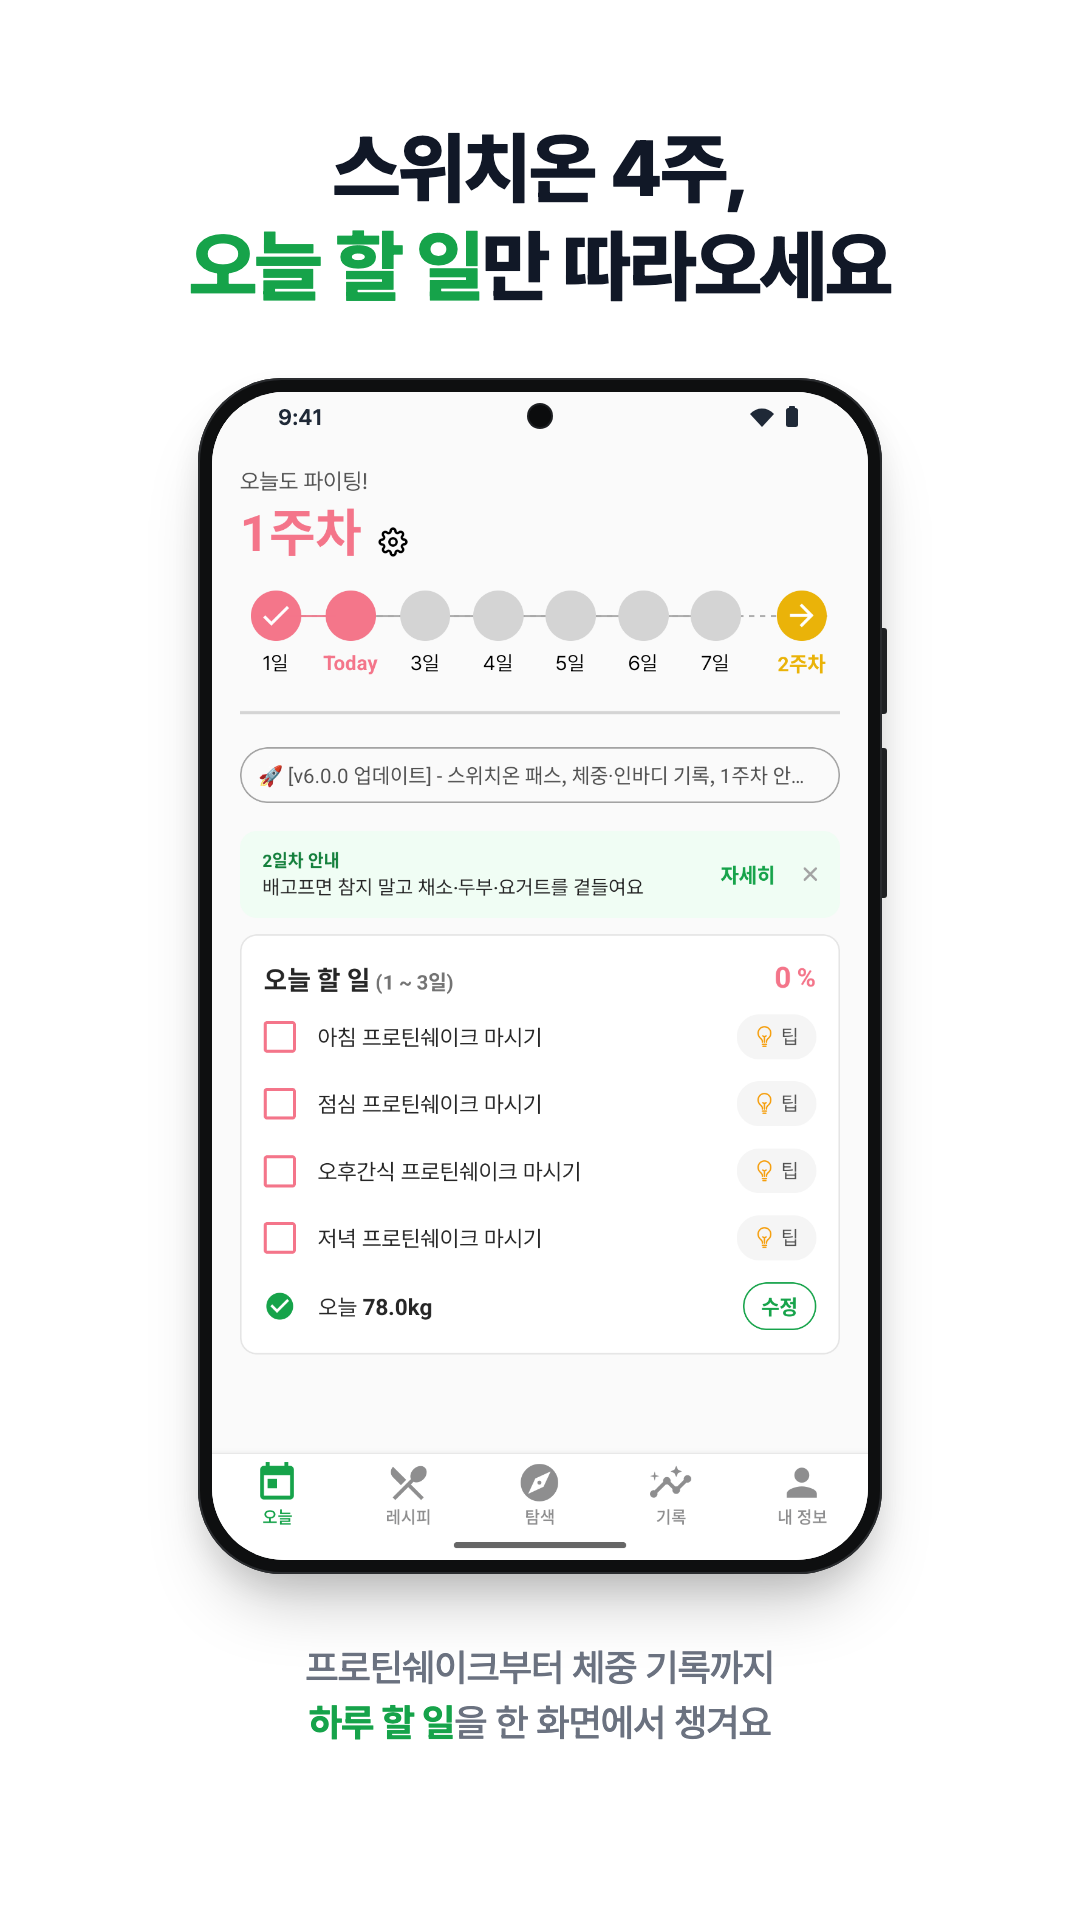
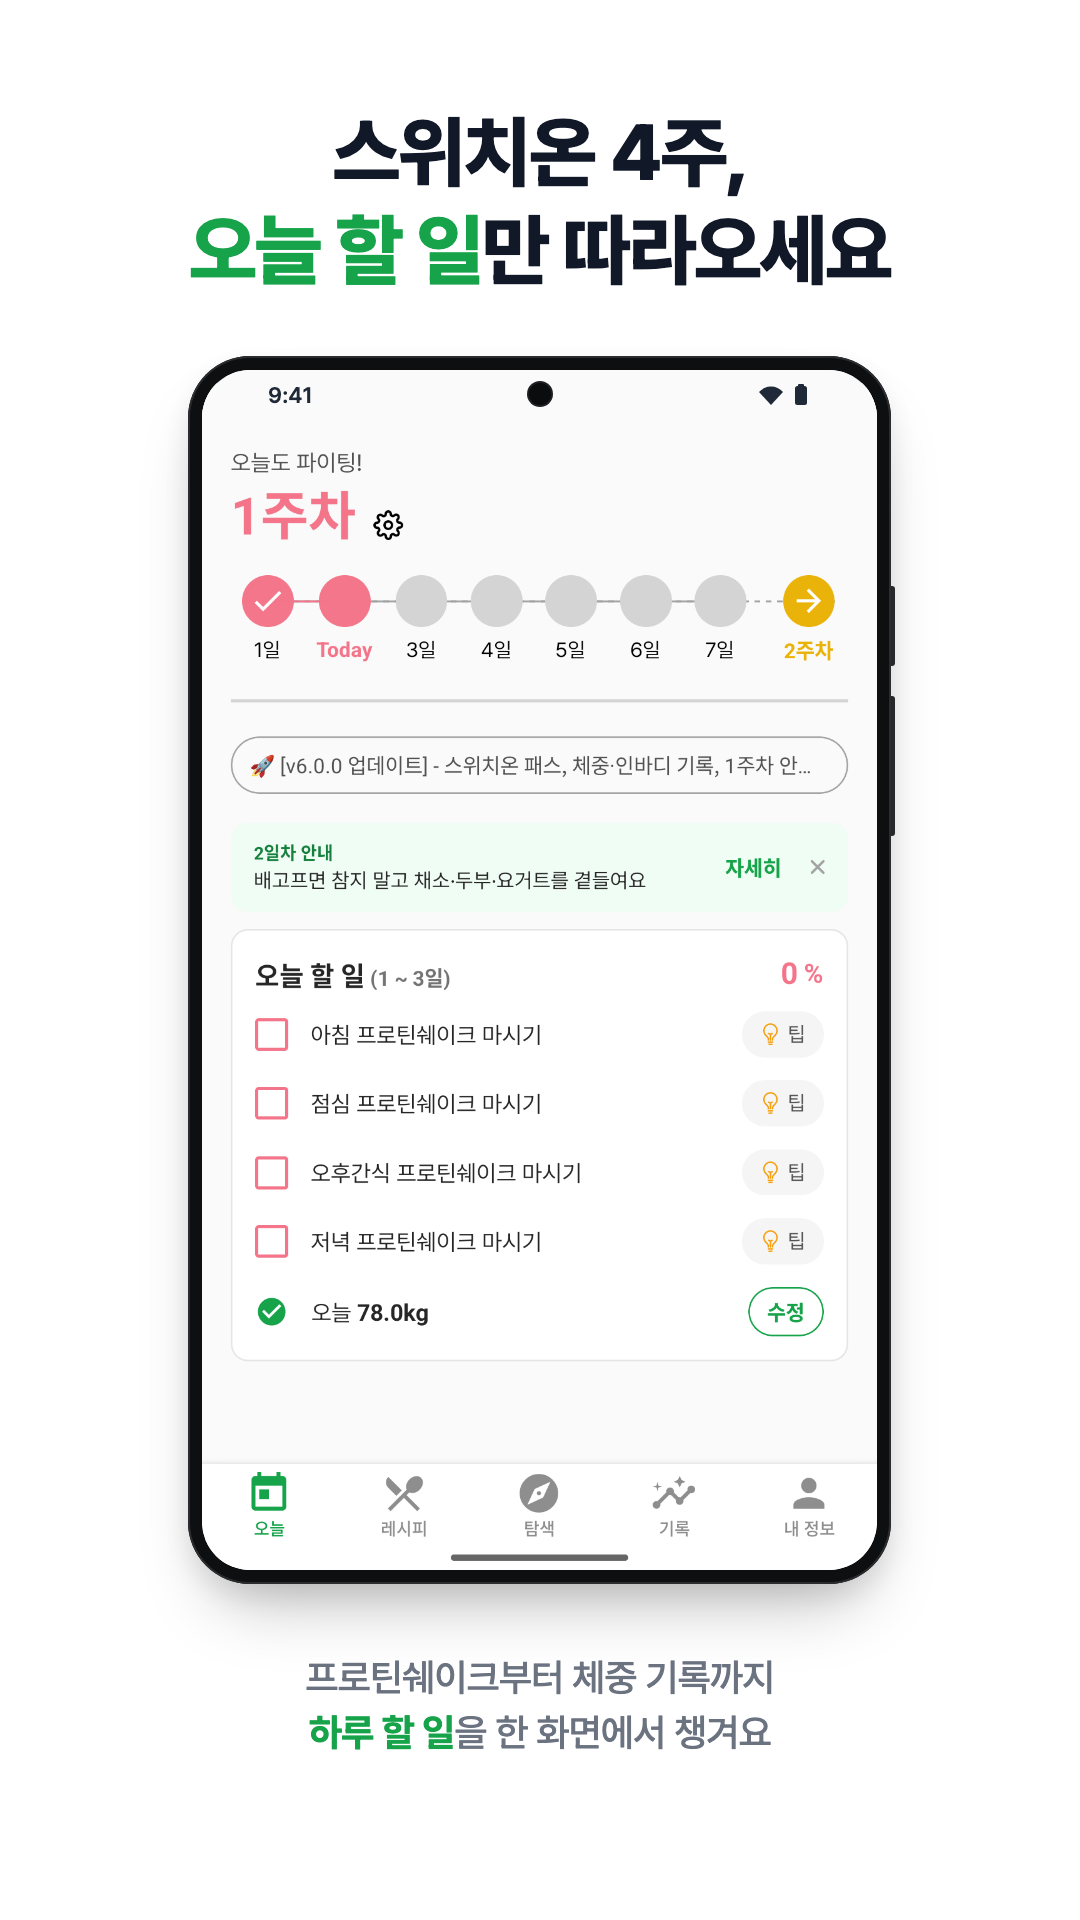
📱 플레이 스토어 휴대전화 스크린샷 6장

diff --git a/docs/store/src/phone-6.html b/docs/store/src/phone-6.html
@@ -8,24 +8,22 @@
 html,body{width:1080px;height:1920px;overflow:hidden;background:#fff}
 body{font-family:"Pretendard",sans-serif;position:relative;color:var(--ink);text-align:center}
 g{color:var(--green)}
-h1{position:absolute;left:60px;right:60px;top:120px;font-size:78px;line-height:1.26;font-weight:800;letter-spacing:-.025em;word-break:keep-all}
-.phone{position:absolute;left:198px;top:378px;width:684px;height:1196px;border-radius:84px;background:var(--bezel);padding:14px;
- box-shadow:0 0 0 2px #2a2c2f inset,0 44px 70px -24px rgba(0,0,0,.26),0 14px 28px rgba(0,0,0,.08)}
-.btn{position:absolute;right:-5px;width:5px;background:#1f2123;border-radius:0 3px 3px 0}
-.b1{top:250px;height:86px}.b2{top:370px;height:150px}
-.screen{width:656px;height:1168px;border-radius:72px;overflow:hidden;background:#fafafa;position:relative}
-.screen img{position:absolute;left:0;top:6px;width:656px;height:auto;display:block}
+h1{position:absolute;left:60px;right:60px;top:104px;font-size:78px;line-height:1.26;font-weight:800;letter-spacing:-.025em;word-break:keep-all}
+.phone{position:absolute;left:188px;top:356px;width:703px;height:1228px;border-radius:62px;background:var(--bezel);padding:14px;
+ box-shadow:0 0 0 2px #2a2c2f inset,0 40px 70px -26px rgba(0,0,0,.28),0 12px 26px rgba(0,0,0,.08)}
+.btn{position:absolute;right:-4px;width:4px;background:#26292c;border-radius:0 3px 3px 0}
+.b1{top:230px;height:80px}.b2{top:340px;height:140px}
+.screen{width:675px;height:1200px;border-radius:48px;overflow:hidden;background:#fafafa;position:relative}
+.screen img{position:absolute;left:0;top:7px;width:675px;height:1200px;display:block}
 .sb{position:absolute;left:0;right:0;top:0;height:46px;background:#fafafa;display:flex;align-items:center;justify-content:space-between;padding:4px 64px 0 66px;font-size:22px;font-weight:600;color:#1f2937;letter-spacing:.01em}
 .sb svg{display:block}
 .cam{position:absolute;left:50%;top:13px;width:22px;height:22px;margin-left:-11px;border-radius:50%;background:#0b0c0d;box-shadow:0 0 0 2px #1d1f22}
-p.cap{position:absolute;left:150px;right:150px;top:1640px;font-size:38px;line-height:1.45;font-weight:500;color:var(--gray);letter-spacing:-.015em;word-break:keep-all}
+p.cap{position:absolute;left:140px;right:140px;top:1650px;font-size:38px;line-height:1.45;font-weight:500;color:var(--gray);letter-spacing:-.015em;word-break:keep-all}
 p.cap g{font-weight:700}
-.card{position:absolute;left:470px;top:1282px;width:500px;height:278px;border-radius:26px;overflow:hidden;background:#fafafa;box-shadow:0 28px 50px -16px rgba(0,0,0,.28),0 6px 16px rgba(0,0,0,.08)}
-.card img{position:absolute;left:-4px;top:-166px;width:516px;height:auto}
 </style></head>
 <body>
 <h1><g>몸의 변화</g>를<br>한눈에</h1>
 <div class="phone"><span class="btn b1"></span><span class="btn b2"></span><div class="screen"><img src="../raw/6-records.png" alt=""><div class="sb"><span>9:41</span><svg width="56" height="22" viewBox="0 0 56 22"><path d="M2 8a16 16 0 0 1 24 0l-12 13z" fill="#1f2937"/><rect x="38" y="2" width="12" height="19" rx="2.5" fill="#1f2937"/><rect x="41" y="0" width="6" height="3" rx="1" fill="#1f2937"/></svg></div><span class="cam"></span></div></div>
-<div class="card"><img src="../raw/6b-calendar.png" alt=""></div>
-<p class="cap">체중 그래프와 <g>4주 완주 달력</g>으로<br>꾸준히 해 온 날을 확인해요</p>
+
+<p class="cap">체중을 기록하면 <g>시작일부터 줄어든 만큼</g><br>그래프로 바로 보여 드려요</p>
 </body></html>

diff --git a/docs/store/src/phone-4.html b/docs/store/src/phone-4.html
@@ -8,24 +8,22 @@
 html,body{width:1080px;height:1920px;overflow:hidden;background:#fff}
 body{font-family:"Pretendard",sans-serif;position:relative;color:var(--ink);text-align:center}
 g{color:var(--green)}
-h1{position:absolute;left:60px;right:60px;top:120px;font-size:78px;line-height:1.26;font-weight:800;letter-spacing:-.025em;word-break:keep-all}
-.phone{position:absolute;left:198px;top:378px;width:684px;height:1196px;border-radius:84px;background:var(--bezel);padding:14px;
- box-shadow:0 0 0 2px #2a2c2f inset,0 44px 70px -24px rgba(0,0,0,.26),0 14px 28px rgba(0,0,0,.08)}
-.btn{position:absolute;right:-5px;width:5px;background:#1f2123;border-radius:0 3px 3px 0}
-.b1{top:250px;height:86px}.b2{top:370px;height:150px}
-.screen{width:656px;height:1168px;border-radius:72px;overflow:hidden;background:#fafafa;position:relative}
-.screen img{position:absolute;left:0;top:6px;width:656px;height:auto;display:block}
+h1{position:absolute;left:60px;right:60px;top:104px;font-size:78px;line-height:1.26;font-weight:800;letter-spacing:-.025em;word-break:keep-all}
+.phone{position:absolute;left:188px;top:356px;width:703px;height:1228px;border-radius:62px;background:var(--bezel);padding:14px;
+ box-shadow:0 0 0 2px #2a2c2f inset,0 40px 70px -26px rgba(0,0,0,.28),0 12px 26px rgba(0,0,0,.08)}
+.btn{position:absolute;right:-4px;width:4px;background:#26292c;border-radius:0 3px 3px 0}
+.b1{top:230px;height:80px}.b2{top:340px;height:140px}
+.screen{width:675px;height:1200px;border-radius:48px;overflow:hidden;background:#fafafa;position:relative}
+.screen img{position:absolute;left:0;top:7px;width:675px;height:1200px;display:block}
 .sb{position:absolute;left:0;right:0;top:0;height:46px;background:#fafafa;display:flex;align-items:center;justify-content:space-between;padding:4px 64px 0 66px;font-size:22px;font-weight:600;color:#1f2937;letter-spacing:.01em}
 .sb svg{display:block}
 .cam{position:absolute;left:50%;top:13px;width:22px;height:22px;margin-left:-11px;border-radius:50%;background:#0b0c0d;box-shadow:0 0 0 2px #1d1f22}
-p.cap{position:absolute;left:150px;right:150px;top:1640px;font-size:38px;line-height:1.45;font-weight:500;color:var(--gray);letter-spacing:-.015em;word-break:keep-all}
+p.cap{position:absolute;left:140px;right:140px;top:1650px;font-size:38px;line-height:1.45;font-weight:500;color:var(--gray);letter-spacing:-.015em;word-break:keep-all}
 p.cap g{font-weight:700}
-.card{position:absolute;left:470px;top:1282px;width:500px;height:278px;border-radius:26px;overflow:hidden;background:#fafafa;box-shadow:0 28px 50px -16px rgba(0,0,0,.28),0 6px 16px rgba(0,0,0,.08)}
-.card img{position:absolute;left:-4px;top:-166px;width:516px;height:auto}
 </style></head>
 <body>
 <h1>먹어도 될까?<br><g>사진 한 장</g>이면 알려줘요</h1>
 <div class="phone"><span class="btn b1"></span><span class="btn b2"></span><div class="screen"><img src="../raw/4-food-check.png" alt=""><div class="sb"><span>9:41</span><svg width="56" height="22" viewBox="0 0 56 22"><path d="M2 8a16 16 0 0 1 24 0l-12 13z" fill="#1f2937"/><rect x="38" y="2" width="12" height="19" rx="2.5" fill="#1f2937"/><rect x="41" y="0" width="6" height="3" rx="1" fill="#1f2937"/></svg></div><span class="cam"></span></div></div>
 
-<p class="cap">음식 사진이나 이름으로<br><g>점수와 이유</g>, 대신 먹을 음식까지</p>
+<p class="cap">음식 사진이나 이름만 넣으면<br><g>10점 만점 점수</g>와 이유를 알려 드려요</p>
 </body></html>

diff --git a/docs/store/src/phone-2.html b/docs/store/src/phone-2.html
@@ -8,20 +8,18 @@
 html,body{width:1080px;height:1920px;overflow:hidden;background:#fff}
 body{font-family:"Pretendard",sans-serif;position:relative;color:var(--ink);text-align:center}
 g{color:var(--green)}
-h1{position:absolute;left:60px;right:60px;top:120px;font-size:78px;line-height:1.26;font-weight:800;letter-spacing:-.025em;word-break:keep-all}
-.phone{position:absolute;left:198px;top:378px;width:684px;height:1196px;border-radius:84px;background:var(--bezel);padding:14px;
- box-shadow:0 0 0 2px #2a2c2f inset,0 44px 70px -24px rgba(0,0,0,.26),0 14px 28px rgba(0,0,0,.08)}
-.btn{position:absolute;right:-5px;width:5px;background:#1f2123;border-radius:0 3px 3px 0}
-.b1{top:250px;height:86px}.b2{top:370px;height:150px}
-.screen{width:656px;height:1168px;border-radius:72px;overflow:hidden;background:#fafafa;position:relative}
-.screen img{position:absolute;left:0;top:6px;width:656px;height:auto;display:block}
+h1{position:absolute;left:60px;right:60px;top:104px;font-size:78px;line-height:1.26;font-weight:800;letter-spacing:-.025em;word-break:keep-all}
+.phone{position:absolute;left:188px;top:356px;width:703px;height:1228px;border-radius:62px;background:var(--bezel);padding:14px;
+ box-shadow:0 0 0 2px #2a2c2f inset,0 40px 70px -26px rgba(0,0,0,.28),0 12px 26px rgba(0,0,0,.08)}
+.btn{position:absolute;right:-4px;width:4px;background:#26292c;border-radius:0 3px 3px 0}
+.b1{top:230px;height:80px}.b2{top:340px;height:140px}
+.screen{width:675px;height:1200px;border-radius:48px;overflow:hidden;background:#fafafa;position:relative}
+.screen img{position:absolute;left:0;top:7px;width:675px;height:1200px;display:block}
 .sb{position:absolute;left:0;right:0;top:0;height:46px;background:#fafafa;display:flex;align-items:center;justify-content:space-between;padding:4px 64px 0 66px;font-size:22px;font-weight:600;color:#1f2937;letter-spacing:.01em}
 .sb svg{display:block}
 .cam{position:absolute;left:50%;top:13px;width:22px;height:22px;margin-left:-11px;border-radius:50%;background:#0b0c0d;box-shadow:0 0 0 2px #1d1f22}
-p.cap{position:absolute;left:150px;right:150px;top:1640px;font-size:38px;line-height:1.45;font-weight:500;color:var(--gray);letter-spacing:-.015em;word-break:keep-all}
+p.cap{position:absolute;left:140px;right:140px;top:1650px;font-size:38px;line-height:1.45;font-weight:500;color:var(--gray);letter-spacing:-.015em;word-break:keep-all}
 p.cap g{font-weight:700}
-.card{position:absolute;left:470px;top:1282px;width:500px;height:278px;border-radius:26px;overflow:hidden;background:#fafafa;box-shadow:0 28px 50px -16px rgba(0,0,0,.28),0 6px 16px rgba(0,0,0,.08)}
-.card img{position:absolute;left:-4px;top:-166px;width:516px;height:auto}
 </style></head>
 <body>
 <h1>재료만 고르면<br><g>이번 주차 레시피</g>가 뚝딱</h1>

diff --git a/docs/store/src/phone-1.html b/docs/store/src/phone-1.html
@@ -8,20 +8,18 @@
 html,body{width:1080px;height:1920px;overflow:hidden;background:#fff}
 body{font-family:"Pretendard",sans-serif;position:relative;color:var(--ink);text-align:center}
 g{color:var(--green)}
-h1{position:absolute;left:60px;right:60px;top:120px;font-size:78px;line-height:1.26;font-weight:800;letter-spacing:-.025em;word-break:keep-all}
-.phone{position:absolute;left:198px;top:378px;width:684px;height:1196px;border-radius:84px;background:var(--bezel);padding:14px;
- box-shadow:0 0 0 2px #2a2c2f inset,0 44px 70px -24px rgba(0,0,0,.26),0 14px 28px rgba(0,0,0,.08)}
-.btn{position:absolute;right:-5px;width:5px;background:#1f2123;border-radius:0 3px 3px 0}
-.b1{top:250px;height:86px}.b2{top:370px;height:150px}
-.screen{width:656px;height:1168px;border-radius:72px;overflow:hidden;background:#fafafa;position:relative}
-.screen img{position:absolute;left:0;top:6px;width:656px;height:auto;display:block}
+h1{position:absolute;left:60px;right:60px;top:104px;font-size:78px;line-height:1.26;font-weight:800;letter-spacing:-.025em;word-break:keep-all}
+.phone{position:absolute;left:188px;top:356px;width:703px;height:1228px;border-radius:62px;background:var(--bezel);padding:14px;
+ box-shadow:0 0 0 2px #2a2c2f inset,0 40px 70px -26px rgba(0,0,0,.28),0 12px 26px rgba(0,0,0,.08)}
+.btn{position:absolute;right:-4px;width:4px;background:#26292c;border-radius:0 3px 3px 0}
+.b1{top:230px;height:80px}.b2{top:340px;height:140px}
+.screen{width:675px;height:1200px;border-radius:48px;overflow:hidden;background:#fafafa;position:relative}
+.screen img{position:absolute;left:0;top:7px;width:675px;height:1200px;display:block}
 .sb{position:absolute;left:0;right:0;top:0;height:46px;background:#fafafa;display:flex;align-items:center;justify-content:space-between;padding:4px 64px 0 66px;font-size:22px;font-weight:600;color:#1f2937;letter-spacing:.01em}
 .sb svg{display:block}
 .cam{position:absolute;left:50%;top:13px;width:22px;height:22px;margin-left:-11px;border-radius:50%;background:#0b0c0d;box-shadow:0 0 0 2px #1d1f22}
-p.cap{position:absolute;left:150px;right:150px;top:1640px;font-size:38px;line-height:1.45;font-weight:500;color:var(--gray);letter-spacing:-.015em;word-break:keep-all}
+p.cap{position:absolute;left:140px;right:140px;top:1650px;font-size:38px;line-height:1.45;font-weight:500;color:var(--gray);letter-spacing:-.015em;word-break:keep-all}
 p.cap g{font-weight:700}
-.card{position:absolute;left:470px;top:1282px;width:500px;height:278px;border-radius:26px;overflow:hidden;background:#fafafa;box-shadow:0 28px 50px -16px rgba(0,0,0,.28),0 6px 16px rgba(0,0,0,.08)}
-.card img{position:absolute;left:-4px;top:-166px;width:516px;height:auto}
 </style></head>
 <body>
 <h1>스위치온 4주,<br><g>오늘 할 일</g>만 따라오세요</h1>

diff --git a/docs/store/src/phone-5.html b/docs/store/src/phone-5.html
@@ -8,20 +8,18 @@
 html,body{width:1080px;height:1920px;overflow:hidden;background:#fff}
 body{font-family:"Pretendard",sans-serif;position:relative;color:var(--ink);text-align:center}
 g{color:var(--green)}
-h1{position:absolute;left:60px;right:60px;top:120px;font-size:78px;line-height:1.26;font-weight:800;letter-spacing:-.025em;word-break:keep-all}
-.phone{position:absolute;left:198px;top:378px;width:684px;height:1196px;border-radius:84px;background:var(--bezel);padding:14px;
- box-shadow:0 0 0 2px #2a2c2f inset,0 44px 70px -24px rgba(0,0,0,.26),0 14px 28px rgba(0,0,0,.08)}
-.btn{position:absolute;right:-5px;width:5px;background:#1f2123;border-radius:0 3px 3px 0}
-.b1{top:250px;height:86px}.b2{top:370px;height:150px}
-.screen{width:656px;height:1168px;border-radius:72px;overflow:hidden;background:#fafafa;position:relative}
-.screen img{position:absolute;left:0;top:6px;width:656px;height:auto;display:block}
+h1{position:absolute;left:60px;right:60px;top:104px;font-size:78px;line-height:1.26;font-weight:800;letter-spacing:-.025em;word-break:keep-all}
+.phone{position:absolute;left:188px;top:356px;width:703px;height:1228px;border-radius:62px;background:var(--bezel);padding:14px;
+ box-shadow:0 0 0 2px #2a2c2f inset,0 40px 70px -26px rgba(0,0,0,.28),0 12px 26px rgba(0,0,0,.08)}
+.btn{position:absolute;right:-4px;width:4px;background:#26292c;border-radius:0 3px 3px 0}
+.b1{top:230px;height:80px}.b2{top:340px;height:140px}
+.screen{width:675px;height:1200px;border-radius:48px;overflow:hidden;background:#fafafa;position:relative}
+.screen img{position:absolute;left:0;top:7px;width:675px;height:1200px;display:block}
 .sb{position:absolute;left:0;right:0;top:0;height:46px;background:#fafafa;display:flex;align-items:center;justify-content:space-between;padding:4px 64px 0 66px;font-size:22px;font-weight:600;color:#1f2937;letter-spacing:.01em}
 .sb svg{display:block}
 .cam{position:absolute;left:50%;top:13px;width:22px;height:22px;margin-left:-11px;border-radius:50%;background:#0b0c0d;box-shadow:0 0 0 2px #1d1f22}
-p.cap{position:absolute;left:150px;right:150px;top:1640px;font-size:38px;line-height:1.45;font-weight:500;color:var(--gray);letter-spacing:-.015em;word-break:keep-all}
+p.cap{position:absolute;left:140px;right:140px;top:1650px;font-size:38px;line-height:1.45;font-weight:500;color:var(--gray);letter-spacing:-.015em;word-break:keep-all}
 p.cap g{font-weight:700}
-.card{position:absolute;left:470px;top:1282px;width:500px;height:278px;border-radius:26px;overflow:hidden;background:#fafafa;box-shadow:0 28px 50px -16px rgba(0,0,0,.28),0 6px 16px rgba(0,0,0,.08)}
-.card img{position:absolute;left:-4px;top:-166px;width:516px;height:auto}
 </style></head>
 <body>
 <h1>한 주를 정리해<br><g>다음 주 할 일</g>까지</h1>

diff --git a/docs/store/src/phone-3.html b/docs/store/src/phone-3.html
@@ -8,20 +8,18 @@
 html,body{width:1080px;height:1920px;overflow:hidden;background:#fff}
 body{font-family:"Pretendard",sans-serif;position:relative;color:var(--ink);text-align:center}
 g{color:var(--green)}
-h1{position:absolute;left:60px;right:60px;top:120px;font-size:78px;line-height:1.26;font-weight:800;letter-spacing:-.025em;word-break:keep-all}
-.phone{position:absolute;left:198px;top:378px;width:684px;height:1196px;border-radius:84px;background:var(--bezel);padding:14px;
- box-shadow:0 0 0 2px #2a2c2f inset,0 44px 70px -24px rgba(0,0,0,.26),0 14px 28px rgba(0,0,0,.08)}
-.btn{position:absolute;right:-5px;width:5px;background:#1f2123;border-radius:0 3px 3px 0}
-.b1{top:250px;height:86px}.b2{top:370px;height:150px}
-.screen{width:656px;height:1168px;border-radius:72px;overflow:hidden;background:#fafafa;position:relative}
-.screen img{position:absolute;left:0;top:6px;width:656px;height:auto;display:block}
+h1{position:absolute;left:60px;right:60px;top:104px;font-size:78px;line-height:1.26;font-weight:800;letter-spacing:-.025em;word-break:keep-all}
+.phone{position:absolute;left:188px;top:356px;width:703px;height:1228px;border-radius:62px;background:var(--bezel);padding:14px;
+ box-shadow:0 0 0 2px #2a2c2f inset,0 40px 70px -26px rgba(0,0,0,.28),0 12px 26px rgba(0,0,0,.08)}
+.btn{position:absolute;right:-4px;width:4px;background:#26292c;border-radius:0 3px 3px 0}
+.b1{top:230px;height:80px}.b2{top:340px;height:140px}
+.screen{width:675px;height:1200px;border-radius:48px;overflow:hidden;background:#fafafa;position:relative}
+.screen img{position:absolute;left:0;top:7px;width:675px;height:1200px;display:block}
 .sb{position:absolute;left:0;right:0;top:0;height:46px;background:#fafafa;display:flex;align-items:center;justify-content:space-between;padding:4px 64px 0 66px;font-size:22px;font-weight:600;color:#1f2937;letter-spacing:.01em}
 .sb svg{display:block}
 .cam{position:absolute;left:50%;top:13px;width:22px;height:22px;margin-left:-11px;border-radius:50%;background:#0b0c0d;box-shadow:0 0 0 2px #1d1f22}
-p.cap{position:absolute;left:150px;right:150px;top:1640px;font-size:38px;line-height:1.45;font-weight:500;color:var(--gray);letter-spacing:-.015em;word-break:keep-all}
+p.cap{position:absolute;left:140px;right:140px;top:1650px;font-size:38px;line-height:1.45;font-weight:500;color:var(--gray);letter-spacing:-.015em;word-break:keep-all}
 p.cap g{font-weight:700}
-.card{position:absolute;left:470px;top:1282px;width:500px;height:278px;border-radius:26px;overflow:hidden;background:#fafafa;box-shadow:0 28px 50px -16px rgba(0,0,0,.28),0 6px 16px rgba(0,0,0,.08)}
-.card img{position:absolute;left:-4px;top:-166px;width:516px;height:auto}
 </style></head>
 <body>
 <h1>김치찌개도<br><g>스위치온식</g>으로</h1>
